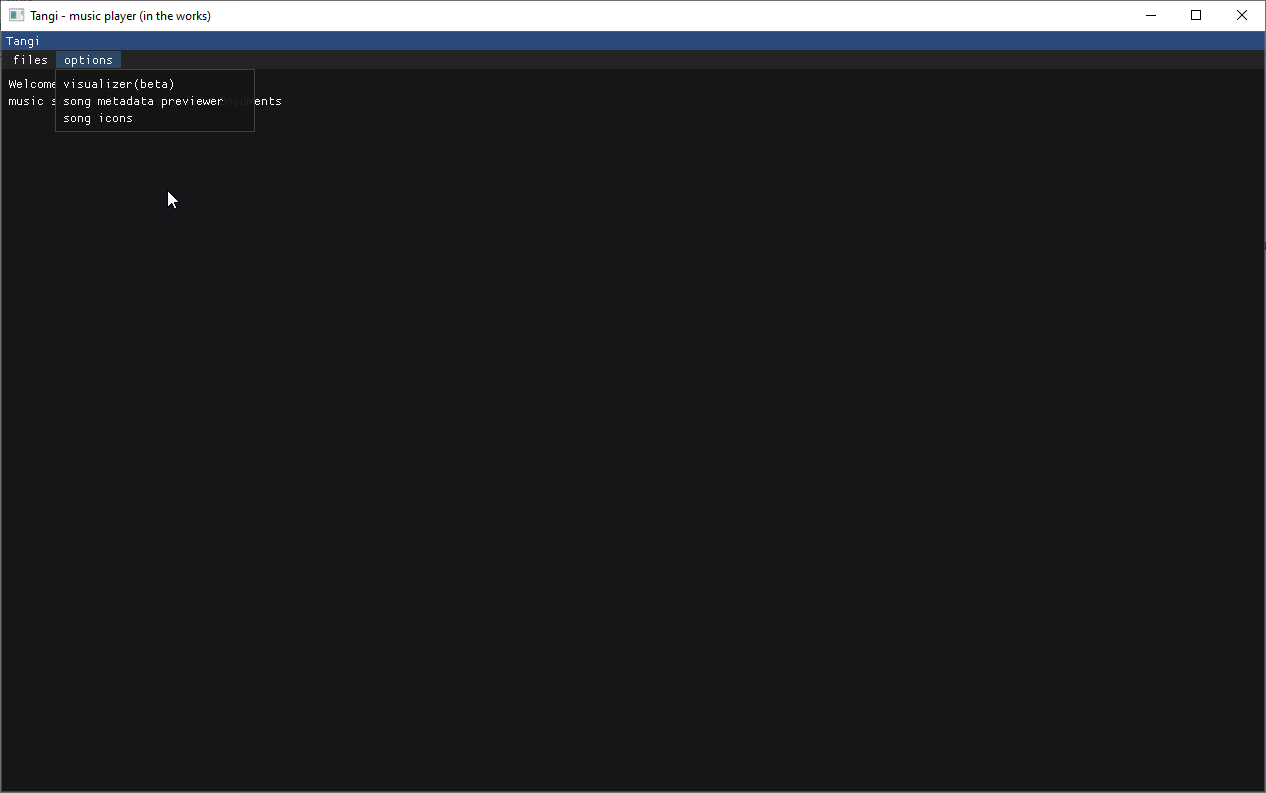
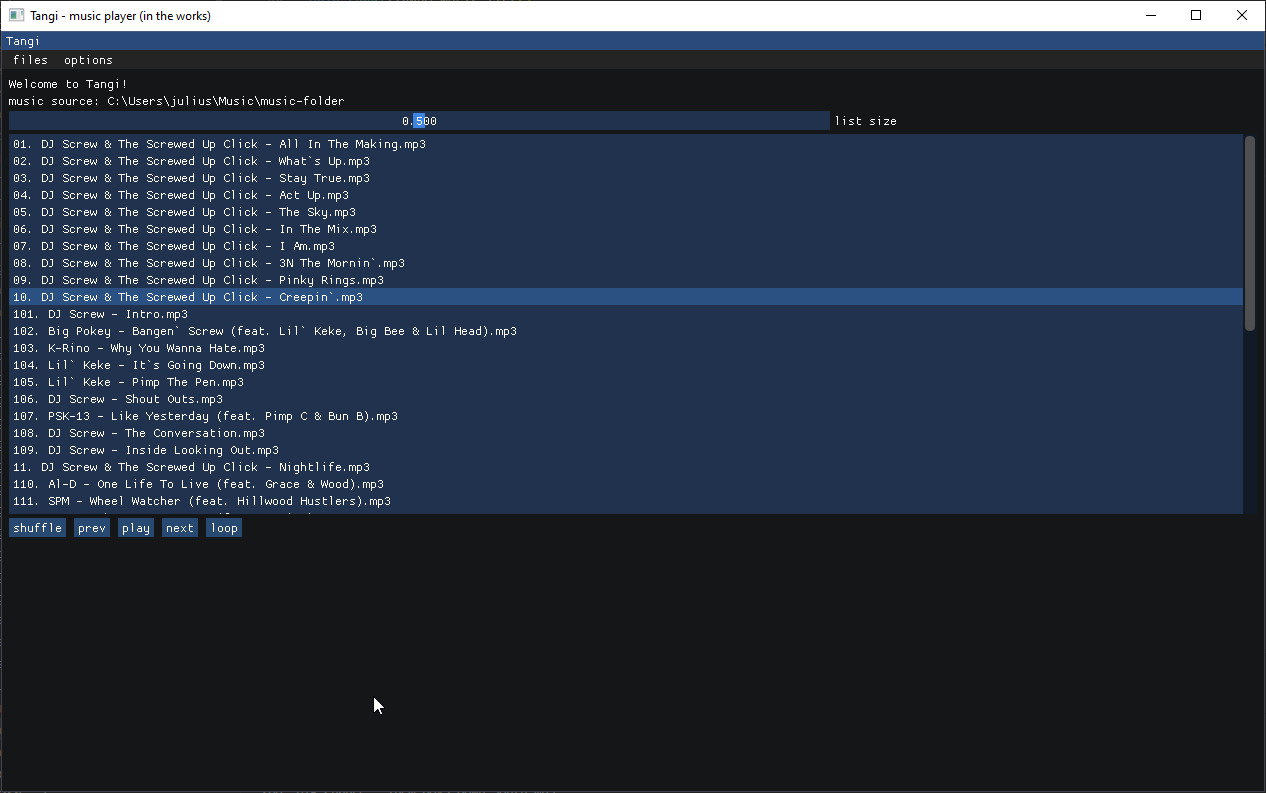
added stuff

diff --git a/tangi/tangi.cpp b/tangi/tangi.cpp
@@ -4,6 +4,8 @@
 #include "../imgui/imgui.h"
 #include "tangi.hpp"
 
+namespace fs = std::filesystem;
+
 // 100% pasted from chatgpt need to rewrite this later, works for now
 std::wstring select_folder(HWND owner = nullptr)
 {
@@ -35,7 +37,24 @@ std::wstring select_folder(HWND owner = nullptr)
     return folderPath;
 }
 
-void tangi::render_imgui_file()
+std::vector<std::wstring> scan_music_files(const std::wstring& folder)
+{
+    std::vector<std::wstring> files;
+    for (const auto & entry : fs::directory_iterator(folder ))
+    {   
+        if (entry.is_regular_file())
+        {
+            auto ext{ entry.path().extension().wstring() };
+            if (ext == L".mp3" || ext == L".wav") {
+                files.push_back(entry.path().filename().wstring());
+                std::wcout << entry.path().filename().wstring() << L'\n';
+            }
+        }
+    }
+    return files;
+}
+
+void tangi::draw_imgui_menu_bar()
 {
     if (ImGui::BeginMenuBar())
     {
@@ -45,6 +64,7 @@ void tangi::render_imgui_file()
             if (ImGui::MenuItem("open folder"))
             { 
                 music_folder = select_folder();
+                music_files = scan_music_files(music_folder);
             };
             
             ImGui::EndMenu();
@@ -62,4 +82,66 @@ void tangi::render_imgui_file()
 
         ImGui::EndMenuBar();
     }
+}
+
+// we probably wanna rework this later its kinda ghetto
+void tangi::draw_music_list()
+{
+    static int selected_index{};
+    static float list_size_slider{0.5f};
+    ImVec2 sz_viewport{ImGui::GetMainViewport()->Size};
+
+    ImGui::SliderFloat("list size", &list_size_slider, 0.f, 1.f);
+
+    //if (ImGui::BeginListBox("##music_list", ImVec2(-FLT_MIN, list_size_slider * ImGui::GetTextLineHeightWithSpacing())))
+    if (ImGui::BeginListBox("##music_list", ImVec2(-FLT_MIN, sz_viewport.y * list_size_slider)))
+    {
+        for (int i = 0; i < music_files.size(); i++)
+        {
+            // this seems weird idk if it works how I think
+            // in the future we should detect if the song has a title attached to it in the metadata then use that instead of the filename
+            std::string file{music_files[i].begin(), music_files[i].end()};
+
+            bool is_selected{selected_index == i};
+            if (ImGui::Selectable(file.c_str(), is_selected))
+            {
+                selected_index = i;
+            }
+            if (is_selected)
+            {
+                ImGui::SetItemDefaultFocus();
+            }
+        }
+        ImGui::EndListBox();
+    }
+}
+
+void tangi::draw_player_buttons()
+{
+        if(ImGui::Button("shuffle"))
+    {
+        std::cout << "shuffling folder cuh";
+    }
+    ImGui::SameLine();
+    if(ImGui::Button("prev"))
+    {
+        std::cout << "playing the prev song cuh";
+    }
+    ImGui::SameLine();
+    if(ImGui::Button("play"))
+    {
+        std::cout << "playing the song cuh";
+    }
+    ImGui::SameLine();
+    if(ImGui::Button("next"))
+    {
+        std::cout << "playing the next song cuh";
+    }
+    ImGui::SameLine();
+    if(ImGui::Button("loop"))
+    {
+        std::cout << "playing the same song cuh";
+    }
+    ImGui::SameLine();
+    
 }

diff --git a/tangi.cpp b/tangi.cpp
@@ -1,10 +1,7 @@
-// Dear ImGui: standalone example application for Windows API + DirectX 11
-
-// Learn about Dear ImGui:
-// - FAQ                  https://dearimgui.com/faq
-// - Getting Started      https://dearimgui.com/getting-started
-// - Documentation        https://dearimgui.com/docs (same as your local docs/ folder).
-// - Introduction, links and more at the top of imgui.cpp
+/* current project goals:
+    * simple previewer for songs in the music folder
+    * implement simple music player functionality
+*/
 
 #include <iostream>
 #include "imgui/imgui.h"
@@ -148,9 +145,11 @@ int main(int, char**)
             ImGui::Begin("Tangi", nullptr, ImGuiWindowFlags_NoResize | ImGuiWindowFlags_NoCollapse | ImGuiWindowFlags_MenuBar);
             {
                 
-                tangi::render_imgui_file();
+                tangi::draw_imgui_menu_bar();
                 ImGui::Text("Welcome to Tangi!");
                 ImGui::Text("music source: %ws",tangi::music_folder.c_str());
+                tangi::draw_music_list();
+                tangi::draw_player_buttons();
             }
             ImGui::End();
         }

diff --git a/tangi/tangi.hpp b/tangi/tangi.hpp
@@ -1,11 +1,16 @@
 // currently we only have this tangi header and cpp file but in the future it might be better to seperate this into multiple files
 
 #pragma once
+#include <vector>
+#include <filesystem>
 
 struct tangi
 {
-    static void render_imgui_file();
+    static void draw_imgui_menu_bar();
+    static void draw_music_list();
+    static void draw_player_buttons();
 
     public:
     static inline std::wstring music_folder{L"none selected"};
+    static inline std::vector<std::wstring> music_files;
 };
